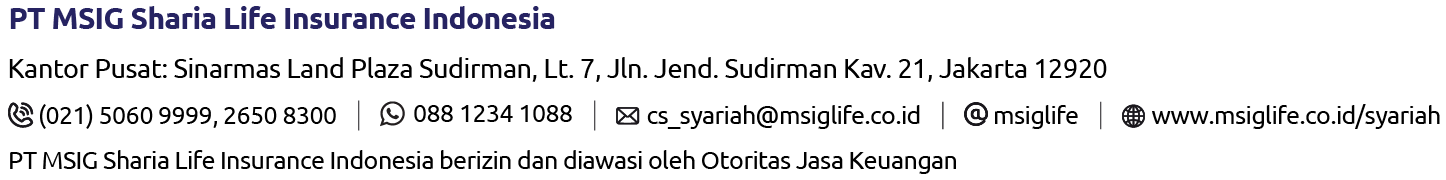
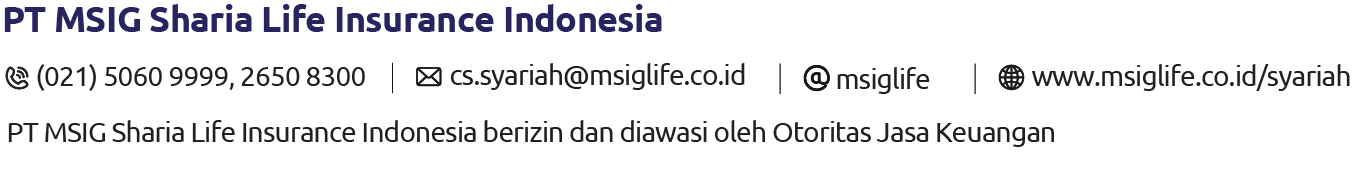
feat(footer, signature): update for syariah document

diff --git a/src/main/resources/template/syariahTemplate/surat_konfirmasi_awal_syariah_template.html b/src/main/resources/template/syariahTemplate/surat_konfirmasi_awal_syariah_template.html
@@ -38,7 +38,8 @@
         }
 
         .footer {
-            margin-left: 10px;
+            padding-left: 20px;
+            padding-right: 20px;
             margin-bottom: 10px;
             text-align: left;
             position: fixed;
@@ -53,7 +54,9 @@
         }
 
         .footer img:nth-child(2) {
-            margin-left: 85px;
+            float: right;
+            margin-right: 40px;
+
             height: 20px;
             width: 200px;
             object-fit: contain;

diff --git a/src/main/resources/template/syariahTemplate/surat_konfirmasi_pembatalan_sertifikat_syariah.html b/src/main/resources/template/syariahTemplate/surat_konfirmasi_pembatalan_sertifikat_syariah.html
@@ -67,7 +67,8 @@
         }
 
         .footer {
-            margin-left: 10px;
+            padding-left: 20px;
+            padding-right: 20px;
             margin-bottom: 10px;
             text-align: left;
             position: fixed;
@@ -82,7 +83,9 @@
         }
 
         .footer img:nth-child(2) {
-            margin-left: 85px;
+            float: right;
+            margin-right: 40px;
+
             height: 20px;
             width: 200px;
             object-fit: contain;

diff --git a/src/main/resources/template/syariahTemplate/surat_konfirmasi_sertifikat_akan_dibatalkan_syariah_template.html b/src/main/resources/template/syariahTemplate/surat_konfirmasi_sertifikat_akan_dibatalkan_syariah_template.html
@@ -67,7 +67,8 @@
         }
 
         .footer {
-            margin-left: 10px;
+            padding-left: 20px;
+            padding-right: 20px;
             margin-bottom: 10px;
             text-align: left;
             position: fixed;
@@ -82,7 +83,9 @@
         }
 
         .footer img:nth-child(2) {
-            margin-left: 85px;
+            float: right;
+            margin-right: 40px;
+
             height: 20px;
             width: 200px;
             object-fit: contain;

diff --git a/src/main/resources/template/syariahTemplate/surat_tunggakan_premi_syariah_template.html b/src/main/resources/template/syariahTemplate/surat_tunggakan_premi_syariah_template.html
@@ -37,7 +37,8 @@
         }
 
         .footer {
-            margin-left: 10px;
+            padding-left: 20px;
+            padding-right: 20px;
             margin-bottom: 10px;
             text-align: left;
             position: fixed;
@@ -52,7 +53,9 @@
         }
 
         .footer img:nth-child(2) {
-            margin-left: 85px;
+            float: right;
+            margin-right: 40px;
+
             height: 20px;
             width: 200px;
             object-fit: contain;
